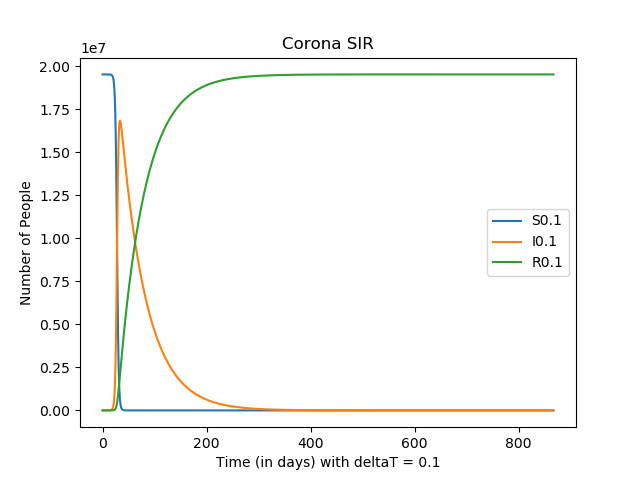
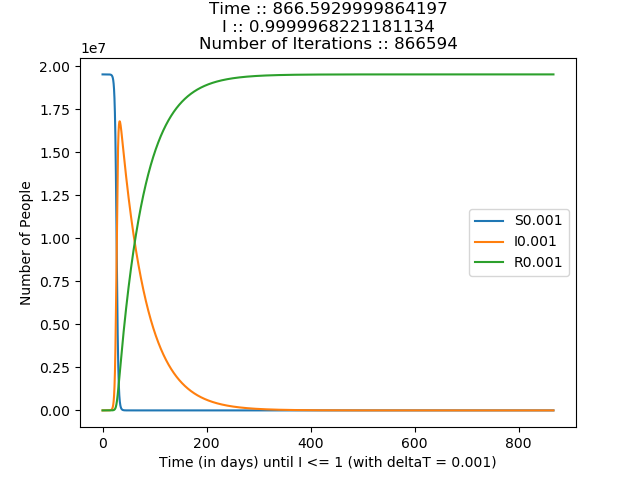
Corona Updated

diff --git a/InClass/Corona Model/Corona.py b/InClass/Corona Model/Corona.py
@@ -21,7 +21,7 @@ def coronaModel(a,b):
         iPrime = ((a*S*I) - (I/b))
         rPrime = (I/b)
 
-        deltaT = 0.1
+        deltaT = 0.001
         deltaS = (sPrime*deltaT)
         deltaI = (iPrime*deltaT)
         deltaR = (rPrime*deltaT)
@@ -35,14 +35,16 @@ def coronaModel(a,b):
         iList.append(I)
         rList.append(R)
         tList.append(t)
+    print("Time :: " + str(t) + " || I :: " + str(I))
+    print("Number of Iterations :: " + str(len(tList)))
 
-    plt.plot(tList, sList, label=("S"+str(deltaT)))           # creates piecewise-linear graphs
-    plt.plot(tList, iList, label=("I"+str(deltaT)))
-    plt.plot(tList, rList, label=("R"+str(deltaT)))
-    plt.xlabel("Time (in days) with deltaT = " + str(deltaT))                 # sets details for plotting
+    plt.plot(tList, sList, label=("S" + str(deltaT)))           # creates piecewise-linear graphs
+    plt.plot(tList, iList, label=("I" + str(deltaT)))
+    plt.plot(tList, rList, label=("R" + str(deltaT)))
+    plt.xlabel("Time (in days) until I <= 1 (with deltaT = " + str(deltaT) + ")")                 # sets details for plotting
     plt.ylabel("Number of People")
-    plt.title("Corona SIR")
-    plt.legend()
+    plt.title("Time :: " + str(t) + "\nI :: " + str(I) + "\nNumber of Iterations :: " + str(len(tList)))
+    plt.legend(loc="best")
     plt.savefig("InClass/Corona Model/CoronaSIRGraph.png")
     plt.close()
 
